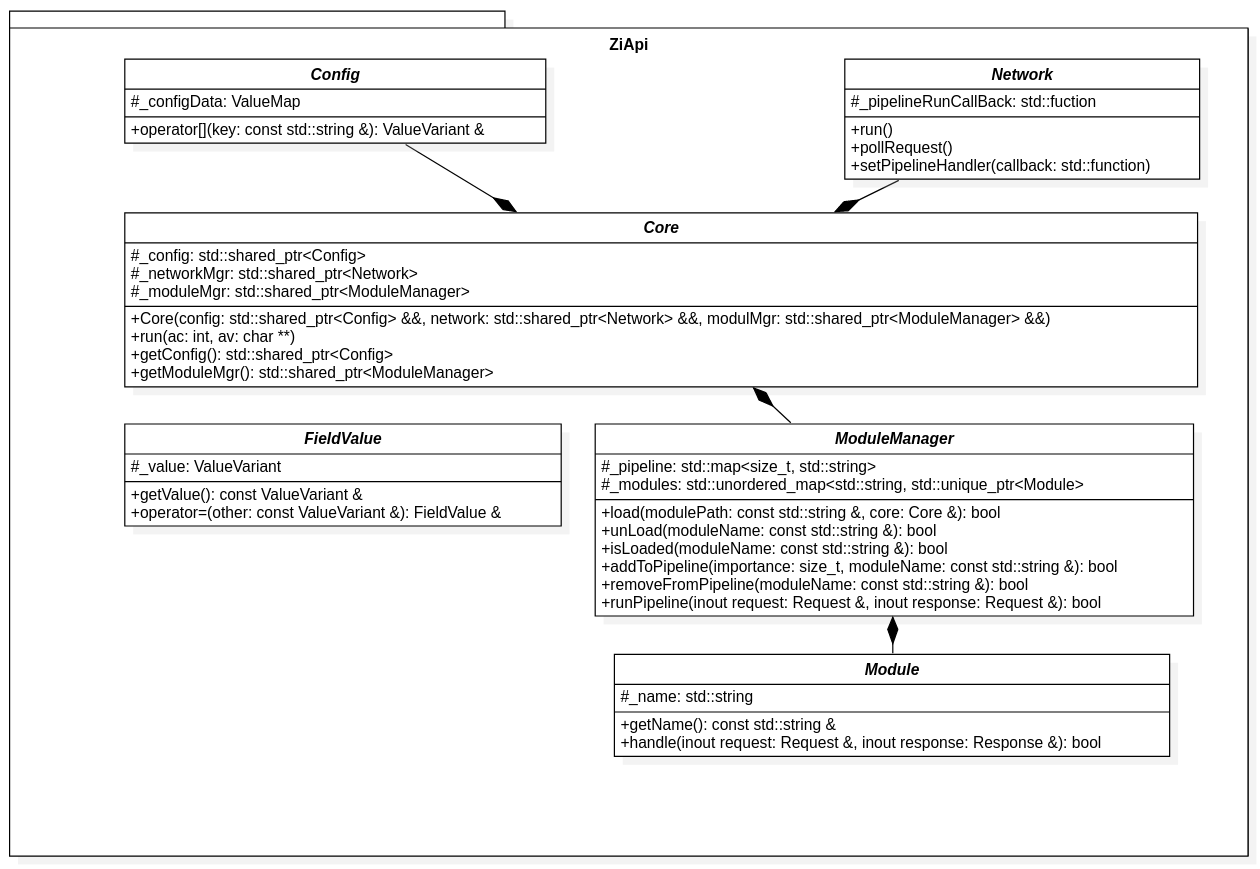
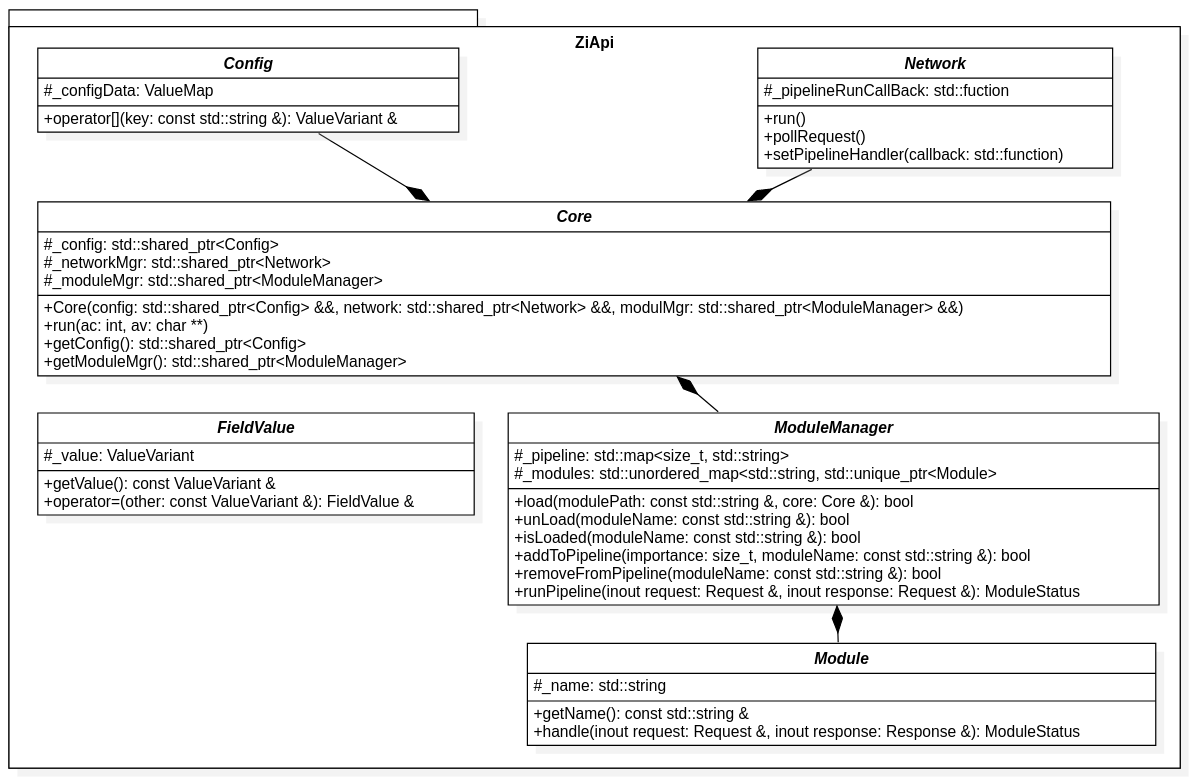
Update handle return status

Changed region(s): [[0.0, 0.0307, 0.9941, 1.0]]

diff --git a/examples/MyModule.hpp b/examples/MyModule.hpp
@@ -7,28 +7,37 @@
 #include <iostream>
 #include "Core.hpp"
 #include "Module.hpp"
+#include "MyFieldValue.hpp"
 
 class SSLModule : public ZiApi::Module {
 public:
     SSLModule(ZiApi::Core &core) {
         _name = "SSL";
-        int priority = 0;                                                       //The module priority can be set in the config file
-        core.getModuleMgr()->addToPipeline(priority, _name);                    //Add the module to the processing list
+        int priority = 0;                                                               //The module priority can be set in the config file
+        core.getModuleMgr()->addToPipeline(priority, _name);                            //Add the module to the processing list
     };
 
     const std::string &getName() const noexcept override { return _name; }
 
-    bool handle(Http::Request &request, Http::Response &response) override {    //Do your things here
+    ModuleStatus handle(Http::Request &request, Http::Response &response) override {
         /* It's up to you */
-        std::cout << __PRETTY_FUNCTION__ << std::endl;                          //virtual bool SSLModule::handle(Http::Request&, Http::Response&)
-        response.setStatusCode(Http::Response::StatusCode::OK);
-        response.setStatusMessage("OK");
-        return true;
+        std::cout << __PRETTY_FUNCTION__ << std::endl;                                  //virtual ZiApi::Module::ModuleStatus SSLModule::handle(Http::Request&, Http::Response&)
+
+        auto &header = response.getHeader();
+
+        header["Host"] = std::make_shared<MyValue>("127.0.0.1:4242");                   //Sets the response's header
+
+        response.setHttpVersion(1, 1);                                                  //Sets the response's http version
+        response.setStatusMessage("OK");                                                //Sets the response's status message
+        response.setStatusCode(Http::Response::StatusCode::OK);                         //Sets the response's status code
+        response.setBody("<html><body><h1>Title</h1></body></html>");                   //Sets the response's body
+
+        return ModuleStatus::OK;
     }
 };
 
 extern "C" {
-std::unique_ptr<ZiApi::Module> createModule(ZiApi::Core &core) {                //It will be called by the dl functions
-    return std::make_unique<SSLModule>(core);                                   //Gives the Core to the module if needed
+std::unique_ptr<ZiApi::Module> createModule(ZiApi::Core &core) {                        //It will be called by the dl functions
+    return std::make_unique<SSLModule>(core);                                           //Gives the Core to the module if needed
 }
 }

diff --git a/examples/MyModuleManager.hpp b/examples/MyModuleManager.hpp
@@ -31,7 +31,7 @@ public:
     }
 
     bool addToPipeline(size_t importance, const std::string &name) override {
-        return _pipeline.emplace(std::make_pair(importance, name)).second;              //Emplace the module in the processing list
+        return _pipeline.emplace(std::make_pair(importance, name)).second;                      //Emplace the module in the processing list
     }
 
     bool removeFromPipeline(const std::string &moduleName) override {
@@ -39,13 +39,14 @@ public:
         return false;
     }
 
-    bool runPipeline(Http::Request &request, Http::Response &response) override {
+    ZiApi::Module::ModuleStatus runPipeline(Http::Request &request, Http::Response &response) override {
         /* The modules are arranged in order in the pipeline container */
-        std::cout << __PRETTY_FUNCTION__ << std::endl;                                  //virtual bool MyModuleMgr::runPipeline(Http::Request&, Http::Response&)
+        std::cout << __PRETTY_FUNCTION__ << std::endl;                                          //virtual ZiApi::Module::ModuleStatus MyModuleMgr::runPipeline(Http::Request&, Http::Response&)
         for (auto &it : _pipeline) {
-            if (_modules[it.second]->handle(request, response))                         //Calls the module handle function
-                break;                                                                  //Breaks if the module returns true
+            ZiApi::Module::ModuleStatus ret = _modules[it.second]->handle(request, response);   //Calls the module handle function
+            if (ret != ZiApi::Module::ModuleStatus::OK)
+                return ret;                                                                     //Breaks if the module returns true
         }
-        return true;
+        return ZiApi::Module::ModuleStatus::OK;
     }
 };

diff --git a/API/Module.hpp b/API/Module.hpp
@@ -22,20 +22,27 @@ namespace ZiApi {
         virtual ~Module() = default;
 
         /**
+         * @brief Handle function return status
+         */
+        enum class ModuleStatus {
+            OK,         ///<The handle function is ok the process can continue
+            STOP,       ///<The process has to stop due to needs of a module
+            ERROR,      ///<There was an error during the module handle function
+            FATAL       ///The process has to stop due to a fatal error in the handle function
+        };
+
+        /**
          * @brief Gets the current name
          */
         virtual const std::string &getName() const noexcept = 0;
 
         /**
          * @brief The module compute the request and response (it's up to you)
-         * @param[in/out] request sended by the client
+         * @param[in/out] request sent by the client
          * @param[in/out] response reply sent to the client
-         * @return
-         * * `true` breaks the chain
-         *
-         * * `false` continue the chain
+         * @return The status for the processing list
          */
-        virtual bool handle(Http::Request &request, Http::Response &response) = 0;
+        virtual ModuleStatus handle(Http::Request &request, Http::Response &response) = 0;
 
     protected:
         std::string _name;          ///< The module's name

diff --git a/API/ModuleManager.hpp b/API/ModuleManager.hpp
@@ -43,9 +43,9 @@ namespace ZiApi {
 
         /**
          * @brief Calls all modules's handle function
-         * @note Breaks the loop if Module::handle returns true
+         * @warning Don't forget to check the return value of the module's handle function
          */
-        virtual bool runPipeline(Http::Request &request, Http::Response &response) = 0;
+        virtual Module::ModuleStatus runPipeline(Http::Request &request, Http::Response &response) = 0;
 
     protected:
         std::map<size_t, std::string> _pipeline;                            ///<Module's processing list ordered by a size_t

diff --git a/examples/MyNetwork.hpp b/examples/MyNetwork.hpp
@@ -26,5 +26,7 @@ public:
         _pipelineRunCallBack(request, res);                                                                 //Run the processing list
 
         std::cout << static_cast<int>(res.getStatusCode()) << " " << res.getStatusMessage() << std::endl;   //The modules's response is : 200 OK
+        std::cout << "Host : "<< std::get<std::string>(res.getHeader()["Host"]->getValue()) << std::endl;   //Host : 127.0.0.1:4242
+        std::cout << res.getBody() << std::endl;                                                            //<html><body><h1>Title</h1></body></html>
     }
 };

diff --git a/README.md b/README.md
@@ -17,7 +17,6 @@ API for Zia Epitech 2021
 - [Architecture](#architecture)
 - [Examples](#examples)  
   - [Module](#module)
-  - [Request](#request)
 - [Links](#links)
 - [License](#license)[Contributors](#Contributors)
 
@@ -68,45 +67,37 @@ class SSLModule : public ZiApi::Module {
 public:
     SSLModule(ZiApi::Core &core) {
         _name = "SSL";
-        int priority = 0;                                                       //The module priority can be set in the config file
-        core.getModuleMgr()->addToPipeline(priority, _name);                    //Add the module to the processing list
+        int priority = 0;                                                               //The module priority can be set in the config file
+        core.getModuleMgr()->addToPipeline(priority, _name);                            //Add the module to the processing list
     };
 
     const std::string &getName() const noexcept override { return _name; }
 
-    bool handle(Http::Request &request, Http::Response &response) override {    //Do your things here
+    ModuleStatus handle(Http::Request &request, Http::Response &response) override {
         /* It's up to you */
-        std::cout << __PRETTY_FUNCTION__ << std::endl;                          //virtual bool SSLModule::handle(Http::Request&, Http::Response&)
-        response.setStatusCode(Http::Response::StatusCode::OK);
-        response.setStatusMessage("OK");
-        return true;
+        std::cout << __PRETTY_FUNCTION__ << std::endl;                                  //virtual ZiApi::Module::ModuleStatus SSLModule::handle(Http::Request&, Http::Response&)
+
+        auto &header = response.getHeader();
+
+        header["Host"] = std::make_shared<MyValue>("127.0.0.1:4242");                   //Sets the response's header
+
+        response.setHttpVersion(1, 1);                                                  //Sets the response's http version
+        response.setStatusMessage("OK");                                                //Sets the response's status message
+        response.setStatusCode(Http::Response::StatusCode::OK);                         //Sets the response's status code
+        response.setBody("<html><body><h1>Title</h1></body></html>");                   //Sets the response's body
+
+        return ModuleStatus::OK;
     }
 };
 
 extern "C" {
-std::unique_ptr<ZiApi::Module> createModule(ZiApi::Core &core) {                //It will be called by the dl functions
-    return std::make_unique<SSLModule>(core);                                   //Gives the Core to the module if needed
+std::unique_ptr<ZiApi::Module> createModule(ZiApi::Core &core) {                        //It will be called by the dl functions
+    return std::make_unique<SSLModule>(core);                                           //Gives the Core to the module if needed
 }
 }
 ```
 
 The `createModule(ZiApi::Core &core)` function must be defined. It is the entry point of your module
-
-### Request
-
-```c++
-int main() {
-    MyHttpRequest request;
-
-    auto &header = request.getHeader();                                     //Get the request's header
-    request.setMethod(Http::Request::MethodType::GET);                      //Sets the request's method
-    request.setUri("/home/index.html");                                     //Sets the request's uri
-    request.setHttpVersion(1, 1);                                           //Sets the request's versions
-    return 0;
-}
-```
-
-You can find a complete example [(MyHttpRequest.cpp)](https://github.com/KillianG/ZiApi/blob/master/examples/MyHttpRequest.cpp)
 
 ## Links
 - [**CMake**](https://cmake.org) for build automation
